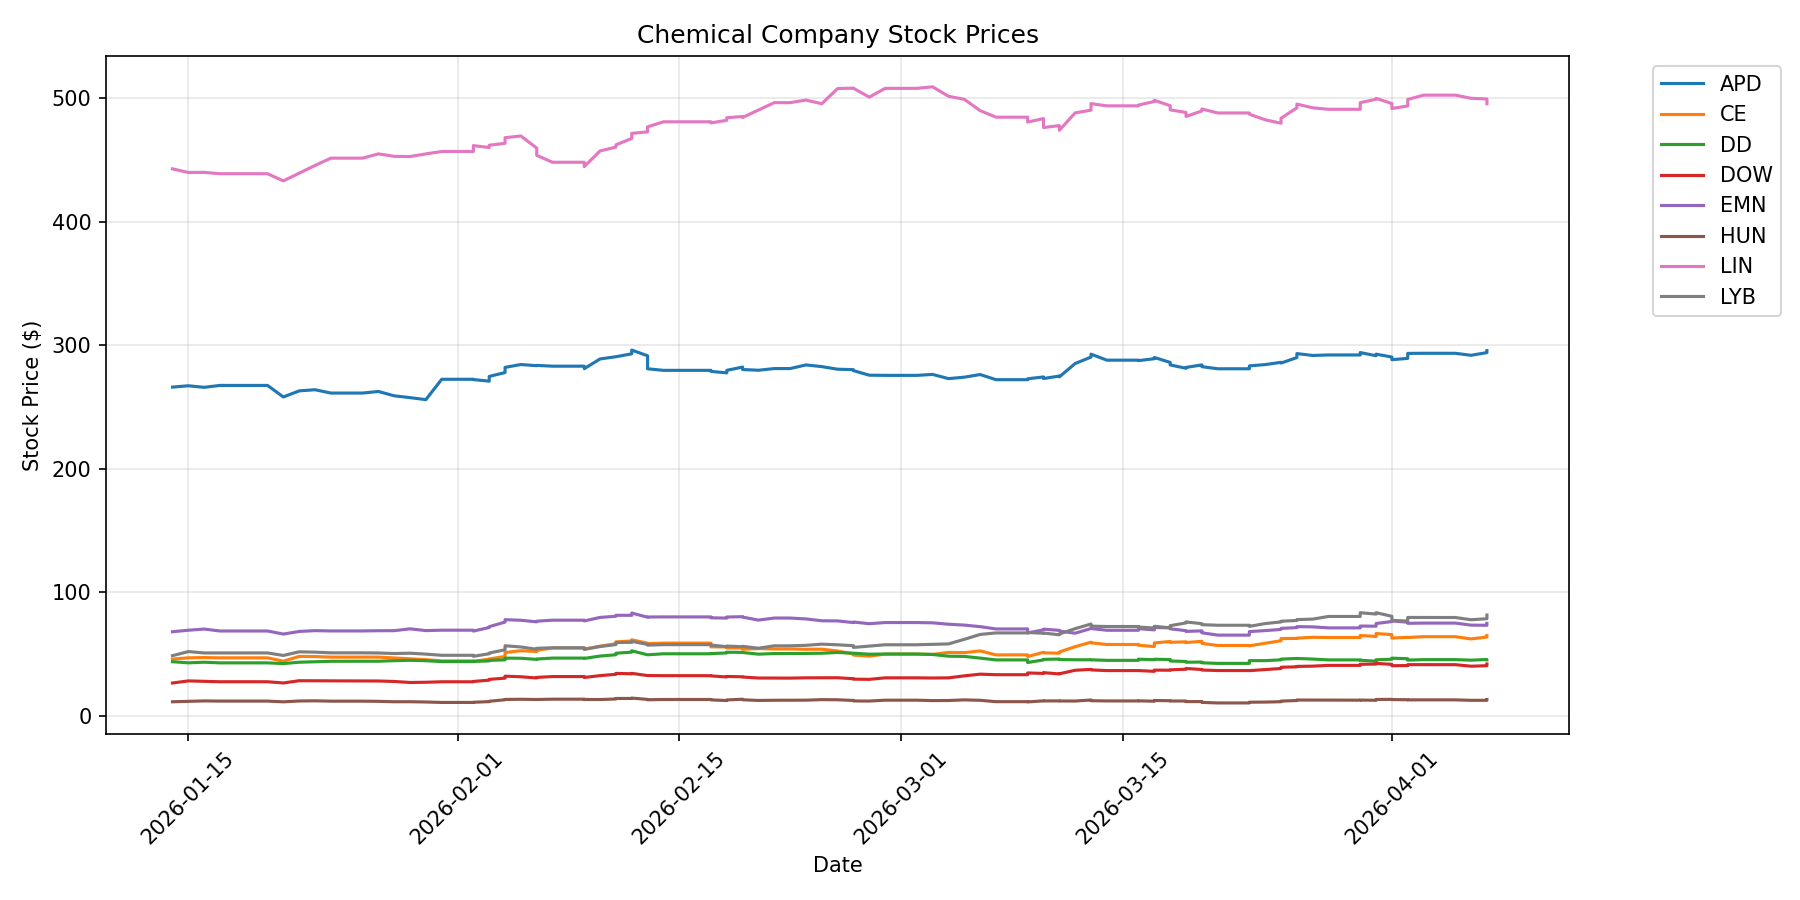
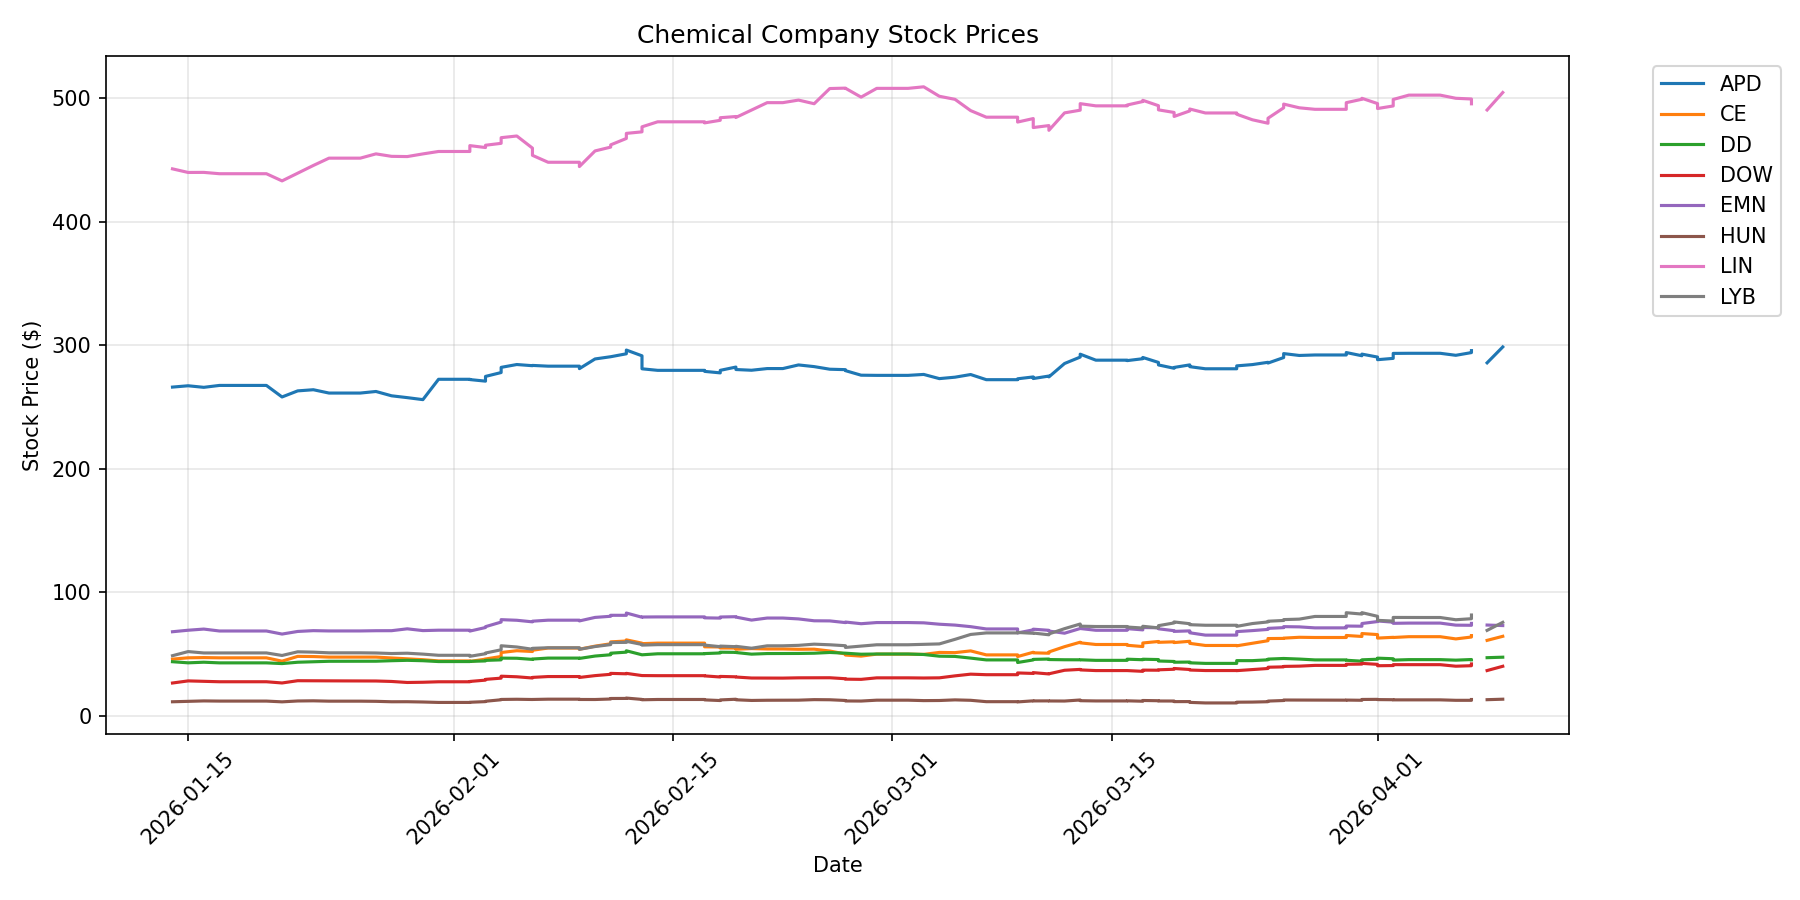
Daily price update: 2026-04-09

diff --git a/README.md b/README.md
@@ -2,29 +2,29 @@
 
 Automated daily tracking of chemical commodity prices and chemical company stocks.
 
-## Latest Prices (Updated: 2026-04-08)
+## Latest Prices (Updated: 2026-04-09)
 
 ### Energy Commodities
 
 | Commodity | Price | Change (24h) | Unit |
 |-----------|-------|--------------|------|
-| WTI Crude Oil | $93.93 | -19.02 (-16.84%) | $/barrel |
-| Brent Crude Oil | $93.01 | -16.26 (-14.88%) | $/barrel |
-| Natural Gas | $2.74 | -0.13 (-4.46%) | $/MMBtu |
-| Heating Oil | $3.78 | -0.69 (-15.48%) | $/gallon |
+| WTI Crude Oil | $101.46 | +7.05 (+7.47%) | $/barrel |
+| Brent Crude Oil | $98.92 | +4.17 (+4.40%) | $/barrel |
+| Natural Gas | $2.70 | -0.02 (-0.70%) | $/MMBtu |
+| Heating Oil | $4.07 | +0.26 (+6.90%) | $/gallon |
 
 ### Chemical Company Stocks
 
 | Company | Ticker | Price | Change (24h) |
 |---------|--------|-------|--------------|
-| Dow Inc. | DOW | $36.64 | -4.77 (-11.52%) |
-| LyondellBasell | LYB | $69.17 | -11.09 (-13.82%) |
-| DuPont | DD | $47.06 | +1.53 (+3.36%) |
-| Air Products | APD | $285.83 | -6.56 (-2.24%) |
-| Linde | LIN | $490.58 | -4.01 (-0.81%) |
-| Eastman Chemical | EMN | $73.49 | -1.07 (-1.43%) |
-| Celanese | CE | $61.08 | -2.49 (-3.92%) |
-| Huntsman | HUN | $13.05 | -0.22 (-1.62%) |
+| Dow Inc. | DOW | $40.10 | +0.83 (+2.10%) |
+| LyondellBasell | LYB | $75.68 | +1.46 (+1.97%) |
+| DuPont | DD | $47.46 | -0.39 (-0.82%) |
+| Air Products | APD | $298.68 | +2.08 (+0.70%) |
+| Linde | LIN | $504.72 | +4.24 (+0.85%) |
+| Eastman Chemical | EMN | $73.06 | -1.21 (-1.63%) |
+| Celanese | CE | $64.37 | +0.62 (+0.97%) |
+| Huntsman | HUN | $13.44 | -0.13 (-0.96%) |
 
 ## Data Sources
 

diff --git a/logs/update_log.md b/logs/update_log.md
@@ -153,3 +153,4 @@ Daily updates to the chemical engineering data repository.
 - **2026-04-07 14:31:07**: Updated 4 energy prices, 8 stocks, 0 FRED series
 - **2026-04-08 00:30:21**: Updated 4 energy prices, 8 stocks, 0 FRED series
 - **2026-04-08 14:31:30**: Updated 4 energy prices, 8 stocks, 0 FRED series
+- **2026-04-09 14:34:05**: Updated 4 energy prices, 8 stocks, 0 FRED series
